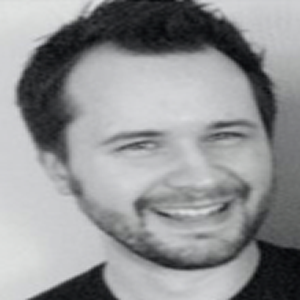
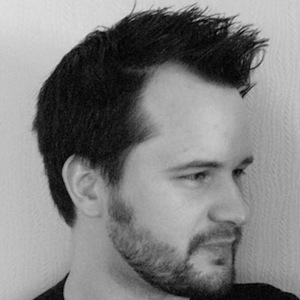
Updated speaker images and bios

diff --git a/index.html b/index.html
@@ -40,7 +40,7 @@
         <div class="twelve columns">
           <div class="intro">
             <div class="intro-text">
-              <div class="date">July 27 - 29 2012</div>
+              <div class="date">July 28 - 29 2012</div>
               <div class="location">Burlington</div>
               <div class="language">Ruby</div>
               <div class="what">Conference</div>
@@ -72,9 +72,11 @@
 				<div class="speaker-info" id="joshua-hull">
 					<img src="btv-assets/joshua-hull.png" class="speaker-img thumbnail" height="150" width="150" alt="Joshua Hull" Title="Joshua Hull" />
 					<span class="speaker-name">JOSHUA HULL</span> <br />
-					<span class="speaker-title">Ruby Expert</span>
+					<span class="speaker-title">Twitter</span>
 					<summary>
 						<p>
+                            <u>Untangling the resourceful web with Renee</u>
+                            <br />
                             During this talk, Joshua will discuss how the request model differs
                             between Sinatra and Rails, and how we can use this to create captivating
                             Web Applications without repeating ourselves.  He will also delve int
@@ -93,11 +95,11 @@
 				<div class="speaker-info" id="dan-croak">
 					<img src="btv-assets/dan-croak.png" class="speaker-img" height="150" width="150" alt="Dan Croak" Title="Dan Croak" />
 					<span class="speaker-name">DAN CROAK</span> <br />
-					<span class="speaker-title">Ruby Expert</span>
+					<span class="speaker-title">Thoughtbot</span>
 					<summary>
 						<p>
-                            "Volunteers, not employees"
-
+                            <u>Volunteers, not employees</u>
+                            <br />
                             Good programmers have the world by the balls. They can work from
                             anywhere, their work can be instantly deployed globally, and they can
                             pick their projects. Employers must consider their teammates highly
@@ -150,11 +152,11 @@
 				<div class="speaker-info" id="marc-andre-cournoyer">
 					<img src="btv-assets/marc-andre-cournoyer.png" class="speaker-img thumbnail" height="150" width="150" alt="Marc-André Cournoyer" Title="Marc-André Cournoyer" />
 					<span class="speaker-name">MARC-ANDR&Egrave;  COURNOYER</span> <br />
-					<span class="speaker-title">Ruby Expert</span>
+					<span class="speaker-title">Coded Inc</span>
 					<summary>
 						<p>
-							The topic for this talk is: The 4 Hour Work Week for Ruby Hackers.
-                            <br /><br />
+							<u>The 4 Hour Work Week for Ruby Hackers</u>
+                            <br />
                             Marc-Andr&eacute; Cournoyer (coor &middot; noah &middot; ye), a very friendly code/life hacker from beautiful Montr&eacute;al, QC.
                             He created Thin, tinyrb, wrote the book Create Your Own Programming Language, created the group chat 
                             application Talker. And he's now making a living online teaching Rails & programming languages.

diff --git a/style.css b/style.css
@@ -150,7 +150,7 @@ div.speaker-info img {
 
 .speaker-name {
     color:#5E5E5E;
-    font-size:18pt;
+    font-size:16pt;
     text-shadow:0px -1px 1px rgba(0,0,0,0.7);
 }
 
